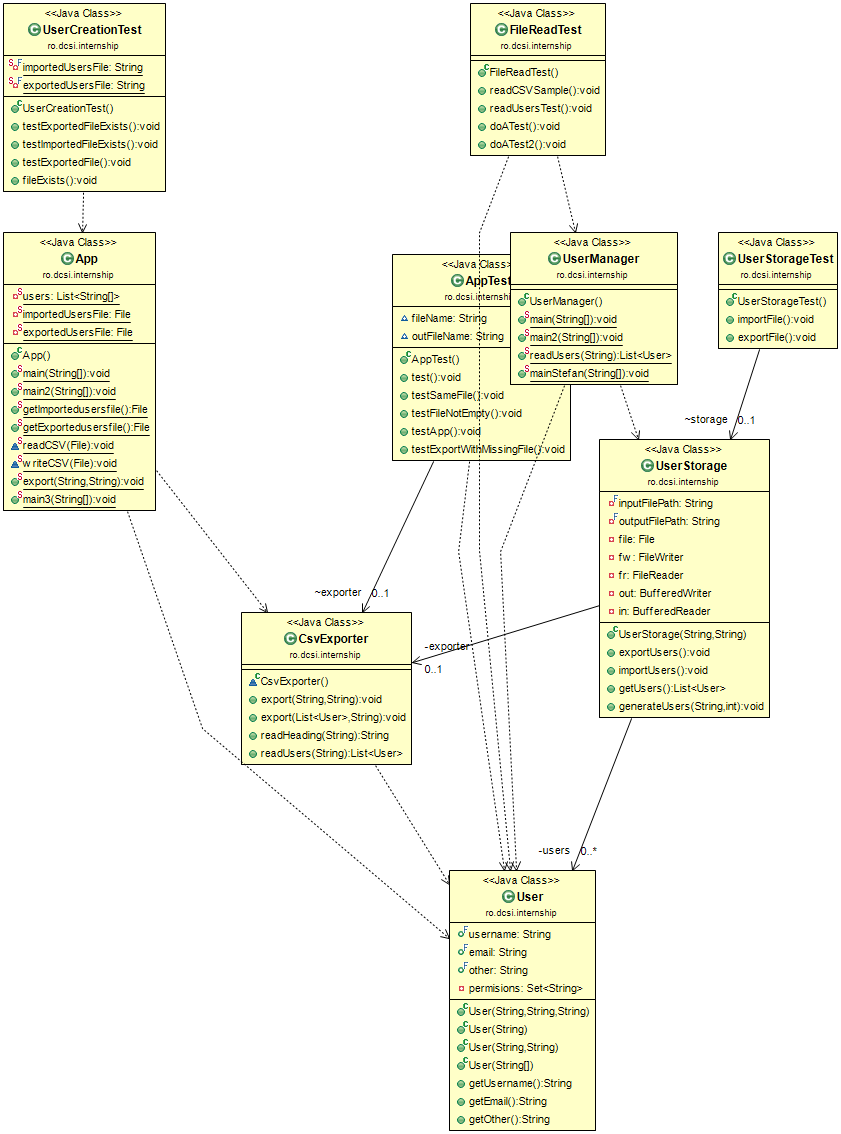
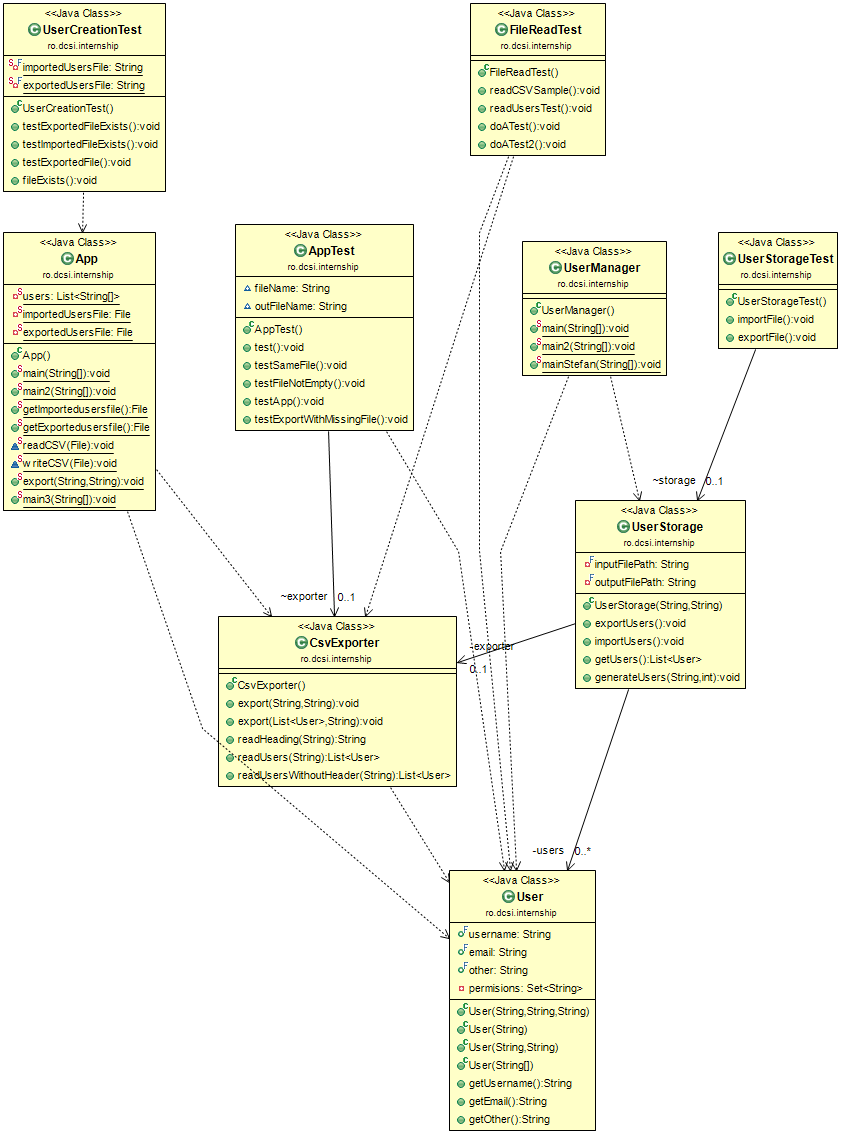
remove duplicate code

diff --git a/src/main/java/ro/dcsi/internship/CsvExporter.java b/src/main/java/ro/dcsi/internship/CsvExporter.java
@@ -4,7 +4,7 @@ import java.io.*;
 import java.util.*;
 
 public class CsvExporter {
-	CsvExporter() {
+	public CsvExporter() {
 		System.out.println("instantiated");
 	}
 	public void export(String inputFileName, String outputFileName) {
@@ -35,14 +35,33 @@ public class CsvExporter {
 		return s;
 	}
 
-	public List<User> readUsers(String fileName) {
+	public List<User> readUsers(String csvFile) {
+		ArrayList<User> users = new ArrayList<>();
+        String csvSplitBy = ",";
+        try(BufferedReader br = new BufferedReader(new FileReader(csvFile))){
+        	boolean firstLine = true;
+            String line = "";
+        	while ((line = br.readLine()) != null){
+        		if (!firstLine){
+        			String[] splited = line.split(csvSplitBy);
+            		//System.out.println("User " + splited[0]+ " " + splited[1] + " has the email adress: " + splited[4]);
+            		users.add(new User(splited[0], splited[1], splited[2]));
+        		} 
+        		firstLine = false;
+        	}
+		} catch (IOException e) {
+			throw new RuntimeException(e); 
+		}    
+		return users;
+	}
+
+	public List<User> readUsersWithoutHeader(String fileName) {
 		List<User> users = new ArrayList<>();
 		try (FileReader fr = new FileReader(fileName)) {
 			BufferedReader br = new BufferedReader(fr);
-			String s;
-			String[] splited;
-			while ((s = br.readLine()) != null) {
-				splited = s.split(",");
+			String line;
+			while ((line = br.readLine()) != null) {
+				String[] splited = line.split(",");
 				users.add(new User(splited[0], splited[1], splited[2]));
 			}
 			return users;

diff --git a/src/main/java/ro/dcsi/internship/UserManager.java b/src/main/java/ro/dcsi/internship/UserManager.java
@@ -62,33 +62,11 @@ public class UserManager {
 
     public static void main2( String[] args )
     {
-        List<User> users = readUsers("/home/madalin/Workspace/Eclipse/WORK/UserSyncApp/ship1/src/main/resources/sample.csv");
+        List<User> users = new CsvExporter().readUsers("/home/madalin/Workspace/Eclipse/WORK/UserSyncApp/ship1/src/main/resources/sample.csv");
         for (User user : users) {
         	System.out.println("User " + user/*+ " " + users[1] + " has the email adress: " + users[4]*/);
 		}
     }
-
-	public static List<User> readUsers(String csvFile) {
-		ArrayList<User> list = new ArrayList<>();
-        //String csvFile = "/home/madalin/Workspace/Eclipse/WORK/UserSyncApp/ship1/src/main/resources/sample.csv";
-        String line = "";
-        String csvSplitBy = ",";
-        
-        try(BufferedReader br = new BufferedReader(new FileReader(csvFile))){
-        	boolean firstLine = true;
-        	while ((line = br.readLine()) != null){
-        		if (!firstLine){
-        			String[] users = line.split(csvSplitBy);
-            		System.out.println("User " + users[0]+ " " + users[1] + " has the email adress: " + users[4]);
-            		list.add(new User(users[0]));
-        		} 
-        		firstLine = false;
-        	}
-		} catch (IOException e) {
-			throw new RuntimeException(e); 
-		}    
-		return list;
-	}
 
     public static void mainStefan( String[] args )
     {

diff --git a/src/test/java/ro/dcsi/internship/FileReadTest.java b/src/test/java/ro/dcsi/internship/FileReadTest.java
@@ -33,11 +33,11 @@ public class FileReadTest {
 
 	@Test
 	public void readUsersTest() throws IOException {
-		List<User> users = UserManager.readUsers("src/test/resources/sample1.csv");
+		List<User> users = new CsvExporter().readUsers("src/test/resources/sample1.csv");
 		assertNotNull(users);
 		assertEquals(3, users.size());
 		assertEquals("Frank", users.get(0).username);
-		assertEquals("Frank", users.get(0).email);
+		assertEquals("friley@kanab.org", users.get(0).email);
 	}
 
 	@Test
